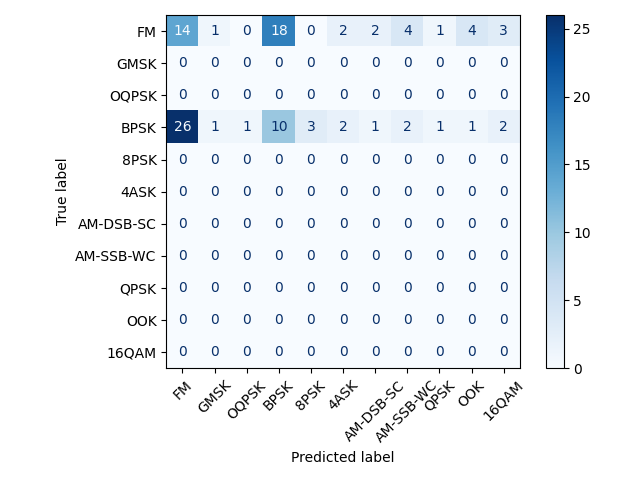
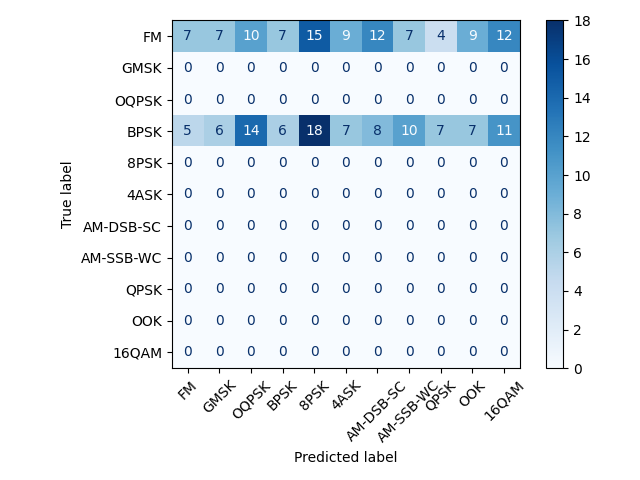
figures

diff --git a/src/eeng645_rudy_finalproject/cloning-env/eval.py b/src/eeng645_rudy_finalproject/cloning-env/eval.py
@@ -16,6 +16,7 @@ from sklearn.metrics import confusion_matrix, ConfusionMatrixDisplay
 from sklearn.model_selection import train_test_split
 from data_management import load_train_test_subset, trim_dataset_by_index, get_class_labels_normal, get_class_labels_strs
 from custom_callbacks import GetPredictionsCallback
+from tensorflow.keras.models import load_model
 
 # Fix tensorflow bug when using tf2 framework with Algorithm.from_checkpoint()
 from ray.rllib.utils.framework import try_import_tf
@@ -99,7 +100,7 @@ def eval_duration_fn_args(eval_duration, tic):
 
 
 
-def evaluate(checkpoint, rf_data = None, num_classes=None, evaluation_duration = 20, evaluation_num_workers = 5):
+def evaluate(checkpoint, env_config, evaluation_duration = 20, evaluation_num_workers = 5):
 
     """Runs a model evaluation from checkpoint for a duration with num workers and saves replays to folder"""
 
@@ -110,22 +111,15 @@ def evaluate(checkpoint, rf_data = None, num_classes=None, evaluation_duration =
     old_config = old_alg.get_config()
     config = old_config.copy(copy_frozen=False) # make an unfrozen copy
 
-    env_config = {
-        'render_mode': 'human',
-        'rf_data': rf_data,
-        'labels': None,
-        'num_classes': num_classes,
-        'max_steps': rf_data.shape[0]-1
-    }
-
     # Update config for evaluation only run
     config_update = {
         'env_config': env_config,
         'evaluation_config': {
-            'evaluation_interval': rf_data.shape[0],
+            'evaluation_interval': 1,
             'evaluation_duration_unit': 'timesteps',
-            'evaluation_duration': evaluation_duration,
+            'evaluation_duration': env_config['max_steps'],
             'evaluation_num_workers': evaluation_num_workers,
+            'evaluation_sample_timeout_s': 600,
         },
         'num_rollout_workers': 0,
         'callbacks': GetPredictionsCallback
@@ -173,17 +167,35 @@ if __name__== '__main__':
     class_labels_keep = [3,8]
     # class_labels_keep = get_class_labels_normal()
     # Use 10 examples of each
-    num_examples = 50
-    signals_train_pt3, labels_train_pt3, signals_test_pt3, labels_test_pt3 = get_data2(class_labels_keep, num_examples)
+    num_examples = 100
+    _, _, signals_test_pt3, _ = get_data2(class_labels_keep, num_examples)
     num_classes = len(get_class_labels_normal())
     total_examples = num_examples*num_classes
+    rf_data = signals_test_pt3
+
+
+    # Reference model to help train agent via predictions
+    REF_MODEL = load_model(os.path.join(os.getcwd(),"models","model_mod_class_cp.h5"))
+    expert_predictions = np.argmax(REF_MODEL.predict(rf_data, verbose=0), axis=1)
+
+
+    
+
+    env_config = {
+        'render_mode': 'human',
+        'rf_data': rf_data,
+        'expert_preds': expert_predictions,
+        'num_classes': num_classes,
+        'max_steps': rf_data.shape[0]-1
+    }
 
     # [3, 8]
     # 2000 examples
     # 50 training iterations
-    checkpoint = '/remote_home/EENG645_FinalProject/ray_results/FinalProject_Copycat/PPO_cloning-v0_97f2f_00000_0_2024-03-11_12-26-32/checkpoint_000000'
+    # checkpoint = '/remote_home/EENG645_FinalProject/ray_results/FinalProject_Copycat/PPO_cloning-v0_97f2f_00000_0_2024-03-11_12-26-32/checkpoint_000000'
 
     # checkpoint = '/remote_home/EENG645_FinalProject/ray_results/FinalProject_Copycat/PPO_cloning-v0_4a14f_00000_0_2024-03-11_06-55-04/checkpoint_000000'
+    checkpoint = '/remote_home/EENG645_FinalProject/ray_results/FinalProject_Copycat/PPO_cloning-v0_76c97_00000_0_2024-03-12_16-27-48/checkpoint_000003'
     evaluation_duration = 1
-    evaluation_num_workers = 10
-    evaluate(checkpoint=checkpoint, evaluation_duration=evaluation_duration, evaluation_num_workers=evaluation_num_workers, rf_data=signals_test_pt3, num_classes=num_classes)
+    evaluation_num_workers = 1
+    evaluate(checkpoint=checkpoint, evaluation_duration=evaluation_duration, evaluation_num_workers=evaluation_num_workers, env_config=env_config)

diff --git a/src/eeng645_rudy_finalproject/run_me.py b/src/eeng645_rudy_finalproject/run_me.py
@@ -29,7 +29,7 @@ def main():
     GENERATE_DATASETS = False
     GEN_VAL_AND_TEST_SUBPLOTS = True
 
-    DO_PART1 = True
+    DO_PART1 = False
     TRAIN_MODULATION_CLASSIFIER = False
     TEST_MODULATION_CLASSIFIER = False
 
@@ -256,16 +256,16 @@ def main():
                 plt.scatter(snr_true, snr_preds)
                 plt.xticks(snr_values)
                 plt.yticks(snr_values)
-                plt.xlabel("True SNR (dB)", fontsize=12)
-                plt.ylabel("Predicted SNR (dB)", fontsize=12)
+                plt.xlabel("True SNR (dB)", fontsize=18)
+                plt.ylabel("Predicted SNR (dB)", fontsize=18)
                 plt.grid(visible=True)
                 plt.show()
             else:
                 ax.scatter(snr_true, snr_preds)
                 ax.set_xticks(snr_values)
                 ax.set_yticks(snr_values)
-                ax.set_xlabel("True SNR (dB)", fontsize=12)
-                ax.set_ylabel("Predicted SNR (dB)", fontsize=12)
+                ax.set_xlabel("True SNR (dB)", fontsize=18)
+                ax.set_ylabel("Predicted SNR (dB)", fontsize=18)
                 ax.grid(visible=True)
             return
 
@@ -329,16 +329,16 @@ def main():
                 plt.grid(visible=True)
                 plt.legend()
                 plt.xticks(snr_values)
-                plt.xlabel("True SNR (dB)", fontsize=12)
-                plt.ylabel("MSE ($dB^2$)", fontsize=12)
+                plt.xlabel("True SNR (dB)", fontsize=18)
+                plt.ylabel("MSE ($dB^2$)", fontsize=18)
                 plt.show()
             else:
                 ax.axhline(y=0.05, color='r', linestyle='-', label="Baseline")
                 ax.grid(visible=True)
                 ax.legend()
                 ax.set_xticks(snr_values)
-                ax.set_xlabel("True SNR (dB)", fontsize=12)
-                ax.set_ylabel("MSE ($dB^2$)", fontsize=12)
+                ax.set_xlabel("True SNR (dB)", fontsize=18)
+                ax.set_ylabel("MSE ($dB^2$)", fontsize=18)
 
             return
         
@@ -420,7 +420,8 @@ def main():
                 CLASS_LABELS_STR,
                 ax = ax1_mse
                 )
-            ax1_mse.title.set_text("a)")
+            ax1_mse.set_title("a)", size=18)
+            ax1_mse.tick_params(axis='both', which='major', labelsize=14)
             plot_snr_estimation_errors(
                 snr_true_test, 
                 snr_preds_test,
@@ -430,8 +431,9 @@ def main():
                 CLASS_LABELS_STR,
                 ax = ax2_mse
                 )
-            ax2_mse.title.set_text("b)")
-
+            ax2_mse.set_title("b)", size=18)
+            ax2_mse.tick_params(axis='both', which='major', labelsize=14)
+            fig_mse.tight_layout()
             plt.show()
             fig_mse_v_true_savepath = os.path.join(os.getcwd(),'figures', f"snr_mse_val_test.png")
             plt.savefig(fig_mse_v_true_savepath, pad_inches=6)
@@ -441,13 +443,17 @@ def main():
             fig_pred, (ax1_pred, ax2_pred) = plt.subplots(2,1, figsize=(10,10))
 
             plot_snr_preds(snr_true_val, snr_preds_val, snr_values, ax1_pred)
-            ax1_pred.title.set_text("a)")
+            ax1_pred.set_title("a)", size=18)
+            ax1_pred.tick_params(axis='both', which='major', labelsize=14)
             ax1_pred.set_aspect('equal', adjustable='box')
             
             plot_snr_preds(snr_true_test, snr_preds_test, snr_values, ax2_pred)
-            ax2_pred.title.set_text("b)")
+            ax2_pred.set_title("b)", size=18)
+            ax2_pred.tick_params(axis='both', which='major', labelsize=14)
             ax2_pred.set_aspect('equal', adjustable='box')
 
+            fig_pred.tight_layout()
+            plt.show()
             fig_pred_v_true_savepath = os.path.join(os.getcwd(),'figures', f"snr_pred_val_test.png")
 
             plt.savefig(fig_pred_v_true_savepath, pad_inches=6)

diff --git a/src/eeng645_rudy_finalproject/cloning-env/train.py b/src/eeng645_rudy_finalproject/cloning-env/train.py
@@ -96,7 +96,7 @@ def main():
     register_env(environment_string, CloningEnv_v0)
 
     local_mode = False
-    training_iterations = 100 # max iterations before stopping
+    training_iterations = 200 # max iterations before stopping
     num_cpu = 20
     num_gpus = 0
     num_eval_workers = 1
@@ -129,9 +129,9 @@ def main():
             # Put hyperparams here as needed. Look in the AlgorithmConfig object and child object for available params
             # REF: https://docs.ray.io/en/master/rllib/rllib-algorithms.html#ppo
             lr=0.001, # learning rate
-            gamma=0.99, # "Discount factor of Markov Decision process"
+            gamma=0.95, # "Discount factor of Markov Decision process"
             kl_coeff=0.0, # Initial coefficient for Kullback-Leibler divergence, penalizes new policies for beeing too different from previous policy
-            # train_batch_size=128,
+            train_batch_size=128,
             )
         .evaluation(evaluation_num_workers=num_eval_workers, evaluation_interval=10)
         # .callbacks(callbacks)

diff --git a/src/eeng645_rudy_finalproject/cloning-env/data_management.py b/src/eeng645_rudy_finalproject/cloning-env/data_management.py
@@ -44,7 +44,7 @@ def save_train_test_subset(
     ##############################
     ##### Dataset Label Info #####
     ##############################
-
+    [3,4,6,8,9,11,16,17,19,22,23]
     # By default, the labels are ONE-HOT ENCODED for the following classes
     # Index: Modulation Type
     # 0 :'32PSK', (32 Phase-Shift Keying)
